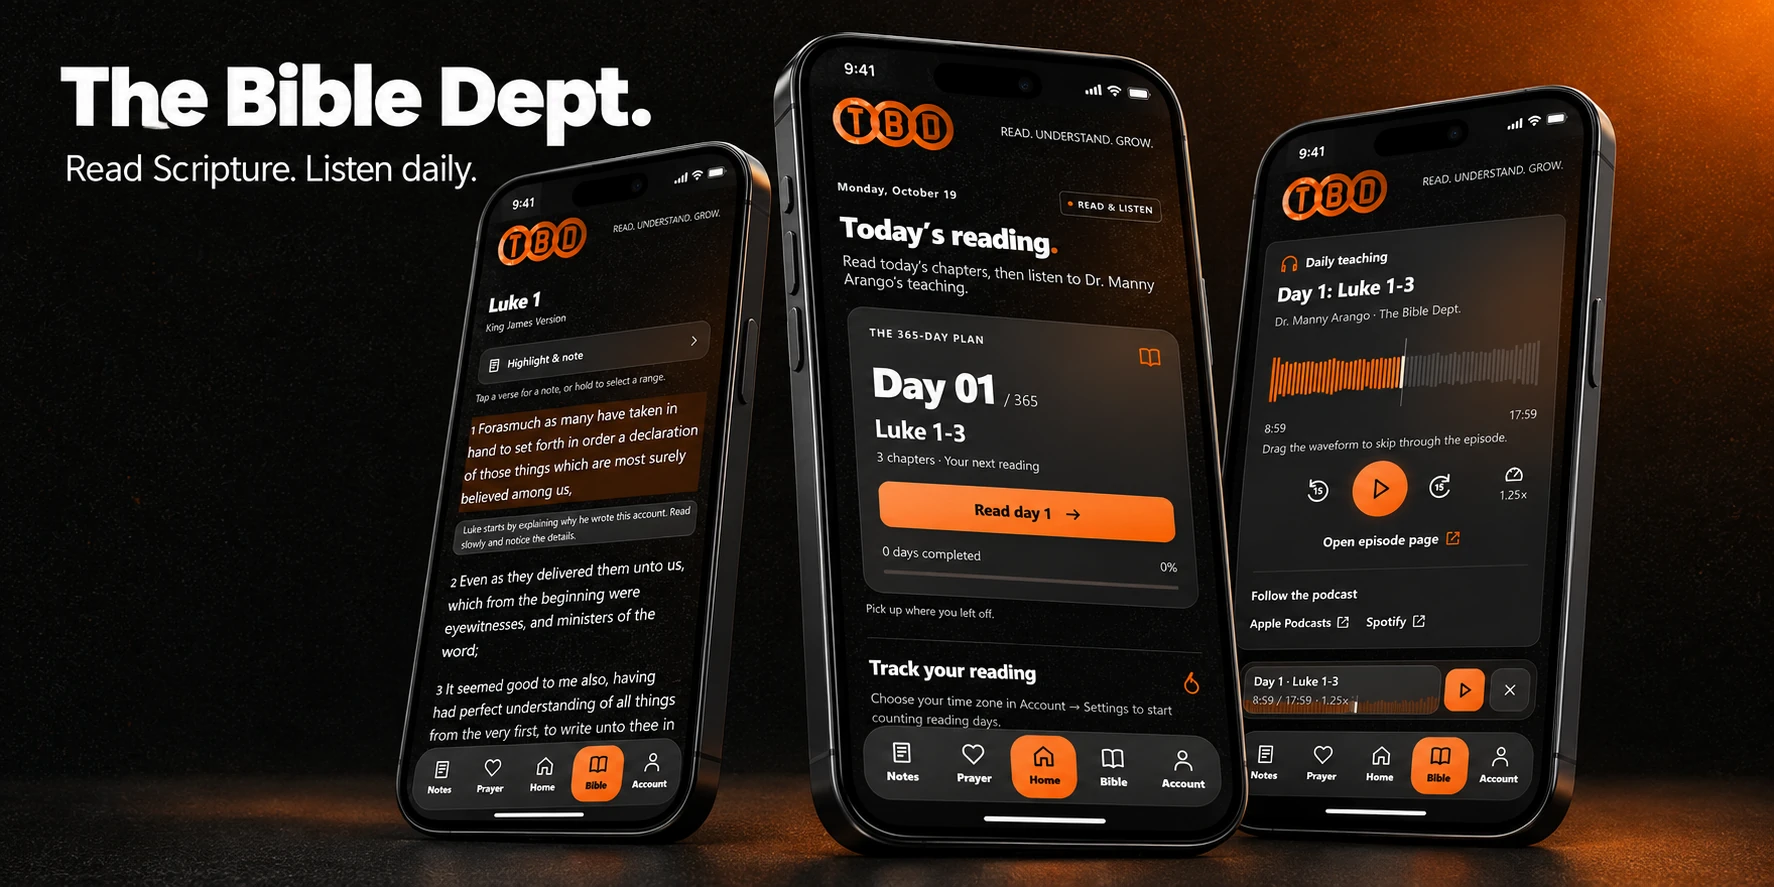
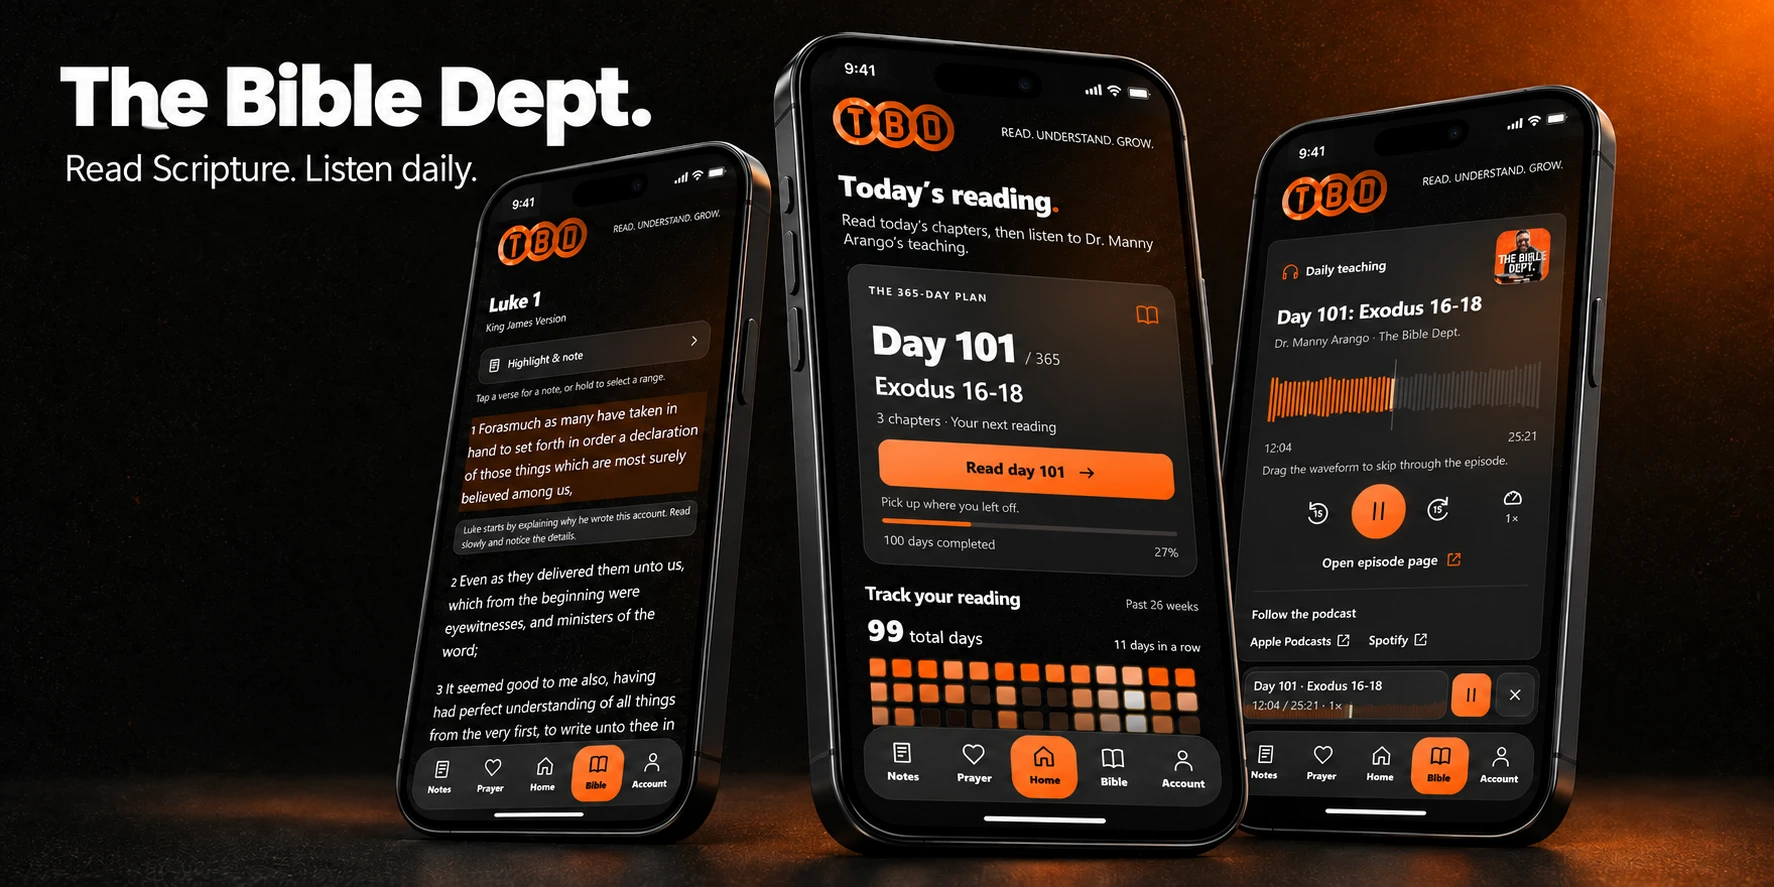
Refresh Home mockups and document real podcast playback with a GIF

diff --git a/docs/REQUEST_CHECKLIST.md b/docs/REQUEST_CHECKLIST.md
@@ -127,14 +127,21 @@ requested plan exists, but its proposed behavior is not activated.
 | Center audio transport independently of speed controls | Complete | Speed controls sit outside the centered transport; narrow layouts move speed controls to a separate row. Browser center measurements matched. |
 | Fade individual verses while scrolling | Complete | Viewport fades animate text separately from edge gradients, preserving visible selection/note controls and reduced-motion support. Browser opacity values and unit cases verified. |
 | Make Scripture verse numbers orange | Complete | Verse numbers use the shared #F05A00 pigment in both themes; browser computed color verified in the reader. |
-| Show orange contribution squares, total days, gaps and brighter consecutive runs | Complete | Replaced the rejected flame artwork. Calendar displays 99 total dated readings and a separate 11-day current run. It has 26 scrollable weekly columns, compact responsive squares and opens at the latest reading. Gaps reset brightness; 21 consecutive days reach near-white. Filled squares have no outline. Stronger gold halos are clipped to 3.5 px beyond each square, within widened 8 px gaps. Pulse visibility and speed follow color intensity: a full cycle takes 5.2 seconds at plain orange and 3.2 seconds at near-white. At most 21 shared UI-thread clocks drive the square effects. Each date has its own stable pseudorandom phase, so matching intensities do not pulse in unison; each square keeps its own fill and halo synchronized. Effects pause away from Home/in the background and respect reduced motion. Filled squares stay fully opaque and animate RGB colors from warm orange/peach toward bright orange/white; the dark dimming overlay was removed. The stronger soft gold bloom has room between squares without reaching neighboring cores. Time-zone setup copy removed. |
+| Show orange contribution squares, total days, gaps and brighter consecutive runs | Complete | Calendar displays 99 total dated readings and a separate 11-day current run. It has 26 scrollable weekly columns, compact responsive squares and opens at the latest reading. Gaps reset brightness; 21 consecutive days reach near-white. Filled squares have no outline. Gold halos extend 3.5 px into the 8 px gaps. Days one through three are static with no animation hooks. Longer runs share one visible-only UI clock, capped at 30 ambient updates/second, with intensity-dependent periods and stable independent date phases. Fill and halo stay synchronized; fill remains opaque. Effects freeze during scrolling, pause offscreen/in the background and respect reduced motion. Time-zone setup copy removed. |
 | Make navigation slightly shorter | Complete | Shell reduced from 76 to 70 px; both normal and inverted icon rows share the same 56 px item height. |
 | Move the resume hint below the Read Day button without growing its card | Complete | Hint uses the existing button-to-progress gap. The progress bar sits above the completed-day and percentage labels. Browser measurement stayed at 342 px before and after at a 390 px viewport. Removed the divider above Track your reading and reduced its top spacing from 52 to 24 px. |
 | Make the progress bar a glowing left-to-right gradient | Complete | Orange tip begins moving toward white after 17%, reaching pure white at 95%. Glow starts gently after 17%, strengthens after 33%, and caps at 80%. Exact thresholds, continuity, bounds and monotonicity have unit coverage. The four-pixel bar preserves card height. |
 | Preserve streak and progress effects in light mode | Complete | Light mode uses a warm recessed calendar bed, subdued empty cells, a darker progress track and saturated amber bloom so white cores remain visible. Dark-mode colors and bloom are preserved. Both themes were reviewed at phone width; contrast checks protect the light-mode backing surfaces. No account progress was changed by theme work. |
+| Stop offscreen square work and optimize the animation | Complete in source; device timing Verify | Visibility culls rows and horizontally offscreen weeks before creating animation worklets. No square animators remain on other pages. Static short runs have no animation hooks. One shared clock replaces up to 21 clocks, computes one pulse per visible square, and uses cached native halo layers. Scrolling freezes the clock and defers worklet mounting until it settles. |
+| Prepare the current unread reader while Home is open | Complete | Mounts the current reader/player before the tap and warms its chapters, saved chapter first. Reader and prefetch share cancelable in-flight requests. Cached chapters render synchronously. Browser confirmed Exodus 16 was already mounted while Home was selected. |
+| Smooth scrolling and swiping; investigate Home jitter | Implemented; physical feel Verify | Verse fades follow native scroll frames instead of restarting timing animations on JS ticks. JS bookkeeping is throttled to 48 ms with final gesture flushes. Calendar effects freeze during vertical/horizontal motion; visibility changes settle after the gesture. Native FPS has not been measured. |
+| Change chapters without rerendering the whole daily screen | Complete | Chapter state, loading, errors, Scripture and its navigation now live in a separate PlanReading component. Header, day progress, picker and player sit outside that state boundary. An uncached chapter preserves the reading area's height. Browser switched Exodus 16→17 while retaining Day 101 and the current player. |
+| Find further optimization opportunities | Complete for this pass | Suspends the full podcast waveform when it is below the viewport, while retaining the global transport and mini-player. Stable memoized passage/player subtrees avoid unrelated work. Adjacent chapters are also warmed while the reader is active. |
+| Refresh Home mockups, add an audio-player GIF and update README | Complete | Replaced Home/player in the banner, added a two-phone Home/activity image and a 9.6-second GIF using 60 real playback captures. Five compressed presentation assets total 1,213,436 bytes; none enter the app bundle. [Media record](images/README.md). |
 
-Latest source validation: TypeScript and **126 unit tests passed**. Final calendar
-iOS export and account-sync merged-rules integration passed. Browser checks do not replace physical
+Latest source validation: TypeScript and **135 unit tests passed**. Fresh web,
+iOS and Android exports passed after the reader/player changes. Prior account-sync
+merged-rules integration remains recorded above. Browser checks do not replace physical
 iPhone verification of the latest glow, glass or touch behavior.
 
 ## Earlier remaining items

diff --git a/docs/images/README.md b/docs/images/README.md
@@ -1,20 +1,23 @@
 # README images
 
-Created October 19, 2026 using the built-in image generation tool. The running Expo web preview supplied the six real 390 × 844 screen captures below. Private content belongs to a fictional local demo account; no church account or personal journal was photographed.
+Created and updated October 19, 2026. The running Expo web preview supplied real 390 × 844 captures. The original reading/notes/preferences images use a fictional local practice account. Updated Home, activity and player captures use the owner's expressly authorized preview account with example content; account identity, credentials and private settings are not photographed.
 
 The phone hardware, perspective, lighting and studio backgrounds are rendered presentation mockups, not photographs of a native iPhone build. The unframed captures remain available for checking the actual interface. In particular, the light-theme capture correctly identifies its practice account.
 
 | Image | Screens | Output |
 | --- | --- | --- |
 | Banner | Home, daily player, Scripture | [bibledept-banner.webp](bibledept-banner.webp) |
+| Home and activity | Current day and full contribution calendar | [bibledept-home-activity.webp](bibledept-home-activity.webp) |
+| Player GIF | Actual playback in a rendered angled phone | [bibledept-player.gif](bibledept-player.gif) |
 | Reading and Notes | Highlighted Scripture and its connected note | [bibledept-reading-notes.webp](bibledept-reading-notes.webp) |
 | Preferences | Reading preferences and light appearance | [bibledept-account-preferences.webp](bibledept-account-preferences.webp) |
 
-All three final images were visually reviewed and encoded as WebP at quality 90 without resizing. Together they occupy **603,250 bytes**, versus 6,194,759 bytes for the generated PNGs. These documentation images live outside the app and are not included in its bundle.
+The four static compositions were visually reviewed and encoded as WebP at quality 90 without resizing. They total **783,940 bytes**. The GIF is **429,496 bytes**, for **1,213,436 bytes** of presentation media altogether. These files live outside the app and are not included in its bundle.
 
 ## Original captures
 
 - [Home](captures/home.jpg)
+- [Full activity calendar](captures/activity.jpg)
 - [Scripture highlight](captures/reader.jpg)
 - [Connected Notes](captures/notes.jpg)
 - [Podcast player](captures/player.jpg)
@@ -24,6 +27,22 @@ All three final images were visually reviewed and encoded as WebP at quality 90 
 ## Generation prompts
 
 Mode: built-in `image_gen`, using local screenshot references, opaque backgrounds. No fallback CLI or external API key was used.
+
+## October 19 refresh
+
+The banner's center Home and right player screens were replaced with their new captures, preserving the original hardware, left Scripture phone, lighting and title. A separate Home/activity composition shows the full calendar. The shots preserve the live distinction between **100 completed lessons / Day 101 next** and **99 dated readings / 11 days in a row**; lesson completions and dated reading activity are different records. No progress was reset for the images.
+
+The player GIF uses 60 actual sequential browser screenshots over 9.439 seconds of real podcast playback. A Remotion 4.0.537 composition maps their timestamps to a 9.6-second, 10 fps, 1000 × 880 looping GIF. The waveform, time counters, transport and mini-player are captured UI, not simulated bars. Only the surrounding presentation hardware, perspective, studio light and caption are rendered. The GIF is silent. A static hardware pose keeps compression efficient. Neither Remotion nor its browser renderer is an app dependency.
+
+### Banner refresh prompt
+
+> Use case: compositing. Edit target image 1 is the existing The Bible Dept wide README banner. Supporting exact screen inserts: image 2 is the NEW Home screen, image 3 is the NEW daily audio player. Replace only the CENTER phone screen with image 2, and the RIGHT phone screen with image 3, faithfully compositing every piece of actual UI. In the center retain Day 101, Exodus 16-18, 100 days completed, the progress bar ABOVE the count, and the orange/white reading calendar. Do not retain old Day 01 or the obsolete time zone copy. Right phone retain Day 101: Exodus 16-18, the small rounded podcast artwork at top right, genuine orange waveform, centered controls and current mini-player. Preserve the left Scripture phone, realistic titanium hardware and slightly skewed 3D poses, depth, background near-black grain with restrained orange circular glow, title 'The Bible Dept.' and subtitle 'Read Scripture. Listen daily.' from image 1. Keep the same polished three-phone banner composition and generous device margins. Do not invent, simplify or rewrite the supplied screen UI. No additional text, labels, watermarks or devices.
+
+### Home/activity prompt
+
+> Use case: product-mockup / compositing. Create a premium wide README feature image with two realistic black titanium iPhones, slightly skewed three-dimensional hardware poses, physical side thickness/buttons and glass reflections, not flat outlines. Image 1 is the exact current Home screen insert for the left/front phone; image 2 is the exact activity-calendar screen insert for the right phone. Preserve all supplied actual UI faithfully, including Day 101 / 365, Exodus 16-18, Read day 101, progress bar ABOVE 100 days completed 27%, 99 total days, 11 days in a row, the 7-row orange-to-white activity squares with gaps, the frosted bottom navbar, small orange verse/book icons. Do not invent or rewrite any UI. Keep both complete devices in frame with generous margin and legible screen content, subtle opposing yaw 8–12 degrees and roll 2–3 degrees. Camera/status hardware may be above each screenshot but must not cover app content. Near-black fine-grained studio background matching the app, one restrained circular #F05A00 glow behind upper-right device fading into black, elegant warm edge lighting and soft contact shadows. No external title, badges, arrows, watermarks, or extra UI. Wide landscape about 1800x1100. This is a factual product presentation, not a redesigned concept.
+
+## Original generation prompts
 
 ### Banner
 

diff --git a/README.md b/README.md
@@ -8,7 +8,7 @@ BibleDept follows [The Bible Dept.](https://www.thebibledept.com/) reading plan,
 
 The active app is **[bibledept-mobile](bibledept-mobile/)**: an Expo client for iPhone, Android, and web using the Firebase JavaScript SDK. It has no giving, checkout, subscriptions, or payment SDKs.
 
-These are real captures from the running web preview and a fictional local demo account, presented in rendered iPhone mockups. They are not photographs of a signed native build. [Original captures and image details](docs/images/README.md).
+These are real captures from the running web preview with example content, presented in rendered iPhone mockups. The updated Home and player captures use the owner's authorized preview account; no account identity or private settings are shown. They are not photographs of a signed native build. [Original captures and image details](docs/images/README.md).
 
 ## Your next reading
 
@@ -17,6 +17,10 @@ These are real captures from the running web preview and a fictional local demo 
 - **An optional Day 0.** Listen to the publisher's full introduction before starting. It has no assigned reading and does not change the 365-day count.
 - **Pick up where you stopped.** Signed-in plan position and completed days sync across devices. Chapter and scroll position stay on the device, scoped to the guest or signed-in account.
 - **Finish the whole lesson.** Reading each chapter and genuinely listening completes the day and opens a congratulations message. The last two minutes of audio are optional; seeking does not earn listening credit. Manual next-day continuation remains available.
+
+![Current reading and the orange-to-white reading activity calendar in angled iPhones](docs/images/bibledept-home-activity.webp)
+
+Home prepares the current day's Scripture and reader before you tap Read Day. Chapter changes update the reading region while keeping the daily header, progress and podcast player in place.
 
 ## Scripture and the notes beside it
 
@@ -31,6 +35,8 @@ Tap a verse to reveal a note shortcut, or hold/select a range. Choose a highligh
 ## The teaching for each day
 
 All 365 readings have their corresponding official podcast episode, alongside the full introductory Day 000. Audio streams directly from the publisher's RedCircle MP3 endpoints. The episode index and compact waveform samples stay in the app; audio is not bundled or downloaded just to draw a waveform.
+
+![Actual daily podcast playback in a rendered angled iPhone, animated GIF](docs/images/bibledept-player.gif)
 
 - Genuine measured bars remain visible when paused, with foreground live response on supported platforms.
 - Orange progress, an eased recent-bar indicator, a backward trail confined to the bars, and quieter gray future bars in the full player.
@@ -47,7 +53,7 @@ Email/password accounts support registration, sign-in, recovery, profile-name ch
 
 ![Dark reading preferences and light appearance choices in realistic angled iPhones](docs/images/bibledept-account-preferences.webp)
 
-- **Progress:** synced current plan day and completed lessons, saved chapter history, and a 26-week activity calendar that opens at the most recent reading. Consecutive squares brighten from orange toward near-white over 21 days, with a pulsing orange/gold outer glow. Chapter reading checks and account streak credits have separate purposes.
+- **Progress:** synced current plan day and completed lessons, saved chapter history, and a 26-week activity calendar that opens at the most recent reading. Consecutive squares brighten from orange toward near-white over 21 days. Days one through three stay static; longer runs pulse with independent phases. Effects run only in view and pause during scrolling. Chapter reading checks and account streak credits have separate purposes.
 - **Notes and prayers:** owner-private records under /bibledeptUsers/{uid}; notes stay connected to Scripture, and saved prayers can be marked answered.
 - **Reading preferences:** usual translation, text size with a preview, and a confirmed reading time zone.
 - **Appearance:** dark and light themes with shared orange, grain, circular light, and frosted controls.
@@ -72,7 +78,7 @@ Firebase configuration belongs in the ignored .env.local. Documented emulator mo
 
 ## Current checks and release boundaries
 
-The October 19 review passed **101 unit tests, TypeScript, and fresh web/iOS/Android JavaScript exports**. Browser checks covered 320/390 px layouts, header wrapping, interrupted navigation, dropdown ranges, real demo-account saves, Notes sync, appearance, time-zone setup, prayers, and daily/intro audio controls. [Complete request checklist](docs/REQUEST_CHECKLIST.md) · [Optimization evidence](docs/REQUEST_AUDIT.md).
+The latest October 19 review passed **135 unit tests, TypeScript, and fresh web/iOS/Android JavaScript exports**. Checks cover visible-only calendar work, short-run animation limits, shared/cancelable Scripture requests, chapter preparation, reading-credit safeguards and existing flows. Browser review confirmed preloaded Scripture, isolated chapter switching, offscreen waveform suspension, and Home/calendar layouts. Physical iPhone frame timing remains to be measured. [Complete request checklist](docs/REQUEST_CHECKLIST.md) · [Optimization evidence](docs/REQUEST_AUDIT.md).
 
 | Area | Current state |
 | --- | --- |
